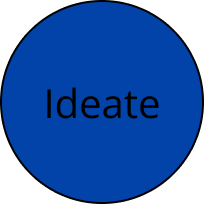
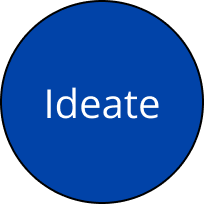
styled phase collapses

Changed region(s): [[0.2059, 0.4118, 0.7941, 0.5882]]

diff --git a/index.html b/index.html
@@ -54,26 +54,51 @@
                 <a class="btn " data-toggle="collapse" href="#researchPhase" role="button" aria-expanded="false" aria-controls="collapseExample">
                   <img src="images/Research circle.png" class="phasecircle">
                 </a>
-                <a class="btn " data-toggle="collapse" href="#collapseExample" role="button" aria-expanded="false" aria-controls="collapseExample">
+                <a class="btn " data-toggle="collapse" href="#definePhase" role="button" aria-expanded="false" aria-controls="collapseExample">
                   <img src="images/Define circle.png" class="phasecircle">
                 </a>
-                <a class="btn " data-toggle="collapse" href="#collapseExample" role="button" aria-expanded="false" aria-controls="collapseExample">
+                <a class="btn " data-toggle="collapse" href="#ideatePhase" role="button" aria-expanded="false" aria-controls="collapseExample">
                   <img src="images/Ideate circle.png" class="phasecircle">
                 </a>
-                <a class="btn " data-toggle="collapse" href="#collapseExample" role="button" aria-expanded="false" aria-controls="collapseExample">
+                <a class="btn " data-toggle="collapse" href="#prototypePhase" role="button" aria-expanded="false" aria-controls="collapseExample">
                   <img src="images/Prototype circle.png" class="phasecircle">
                 </a>
-                <a class="btn " data-toggle="collapse" href="#collapseExample" role="button" aria-expanded="false" aria-controls="collapseExample">
+                <a class="btn " data-toggle="collapse" href="#testingPhase" role="button" aria-expanded="false" aria-controls="collapseExample">
                   <img src="images/Testing circle.png" class="phasecircle">
                 </a>
-                <a class="btn " data-toggle="collapse" href="#collapseExample" role="button" aria-expanded="false" aria-controls="collapseExample">
+                <a class="btn " data-toggle="collapse" href="#conclusionPhase" role="button" aria-expanded="false" aria-controls="collapseExample">
                   <img src="images/Conclusion circle.png" class="phasecircle">
                 </a>
               </p>
             </div>
             <div class="collapse" id="researchPhase">
-              <div class="card card-body">
+              <div class="card card-body phase1">
                 We had a hard time figuring out the user that would use this website. We got in contact with the founder of the organization. We chose to interview a stakeholder from the organization because it would give us insight to their goal for the website and their users. I made the interview plan for interviewing the founder. This interview told us the goal of the organization for their users. My teammate did a competitor analysis to see how other similar organizations display their goal to their users
+              </div>
+            </div>
+            <div class="collapse" id="definePhase">
+              <div class="card card-body phase2">
+                I created a user persona based on the information that we got from the founder interview. This would allow us to align our goal and design decisions with a potential user. My teammate and I redline annotated seperate webpages to get an idea of what our redesign would look like. I annotated the homepage and highlighted the specific details that lead to a lack of a goal for the user. We did these annotations in order to get a good idea of what changes we would need to make in order to have the website align with the goals of the user and the organization. We then moved to defining our problem statement in order to have a well defined, actionable goal for our project. I helped write and define this problem statement
+              </div>
+            </div>
+            <div class="collapse" id="ideatePhase">
+              <div class="card card-body phase3">
+                My team decided to do ui sketches in order to brainstorm ideas on how our redesign would look. My sketch was for the homepage. I brought the resources from the organization along with their vision to the hero section of the homepage in order to clearly present the organization's goal. After this, took the navigation links that were on the website and sorted them into categories that we thought would better allow the users to accomplish the goal that the organization had in mind for them.
+              </div>
+            </div>
+            <div class="collapse" id="prototypePhase">
+              <div class="card card-body phase4">
+                My teammate made a prototype that encorperated ideas from our sketches and card sorting. After some feedback from our peers, I made a low fidelity prototype that showed our iterations and gave my teammate a base for their new high fidelity prototype. 
+              </div>
+            </div>
+            <div class="collapse" id="testingPhase">
+              <div class="card card-body phase5">
+                I then created a usability testing plan to make sure that our prototype was clear about it's goal and was intuitively navigable. I conducted two usability tests on our prototype while my teammate used the same usability testing plan to conduct two of their own usability tests. With these tests done, we took the feedback from our tests and iterated on our prototype. I then wrote an AB testing plan to decide which design we would take for a specific part of the website. My teammate and I each did an AB test that gave us our result, and we made our final iterations to our project before our presentation.
+              </div>
+            </div>
+            <div class="collapse" id="conclusionPhase">
+              <div class="card card-body phase6">
+                Some of our future opportunites with this project would be iterating on the layout of the safety tips for parents blog, fleshing out our desktop design by scaling our mobile design up, and presenting our work to the founder that we got in contact with. By the end of this, I feel that we made a good solution that allowed our users to clearly define the goal of the website and accomplish that goal. It was difficult finishing this project meant for 3 people with only 2. I feel like my partner and I helped lead each other to success, but my project management helped us get all of our deliverables done.
               </div>
             </div>
           </div>

diff --git a/css/style.css b/css/style.css
@@ -42,7 +42,7 @@ body{
 }
 .phasescontainer h1{
     text-align:center;
-    color:black;
+    color:white;
 }
 .phases{
     display:flex;
@@ -55,4 +55,28 @@ body{
 .phasecircle{
     height:102px;
     width:102px;
+}
+.phase1{
+    background-color:#8BADE0;
+    color:black;
+}
+.phase2{
+    background-color:#3D7DDB;
+    color:black;
+}
+.phase3{
+    background-color:#0143A8;
+    color:white;
+}
+.phase4{
+    background-color:#1A345C;
+    color:white;
+}
+.phase5{
+    background-color:#5E6269;
+    color:white;
+}
+.phase6{
+    background-color:#ffffff;
+    color:black;
 }
